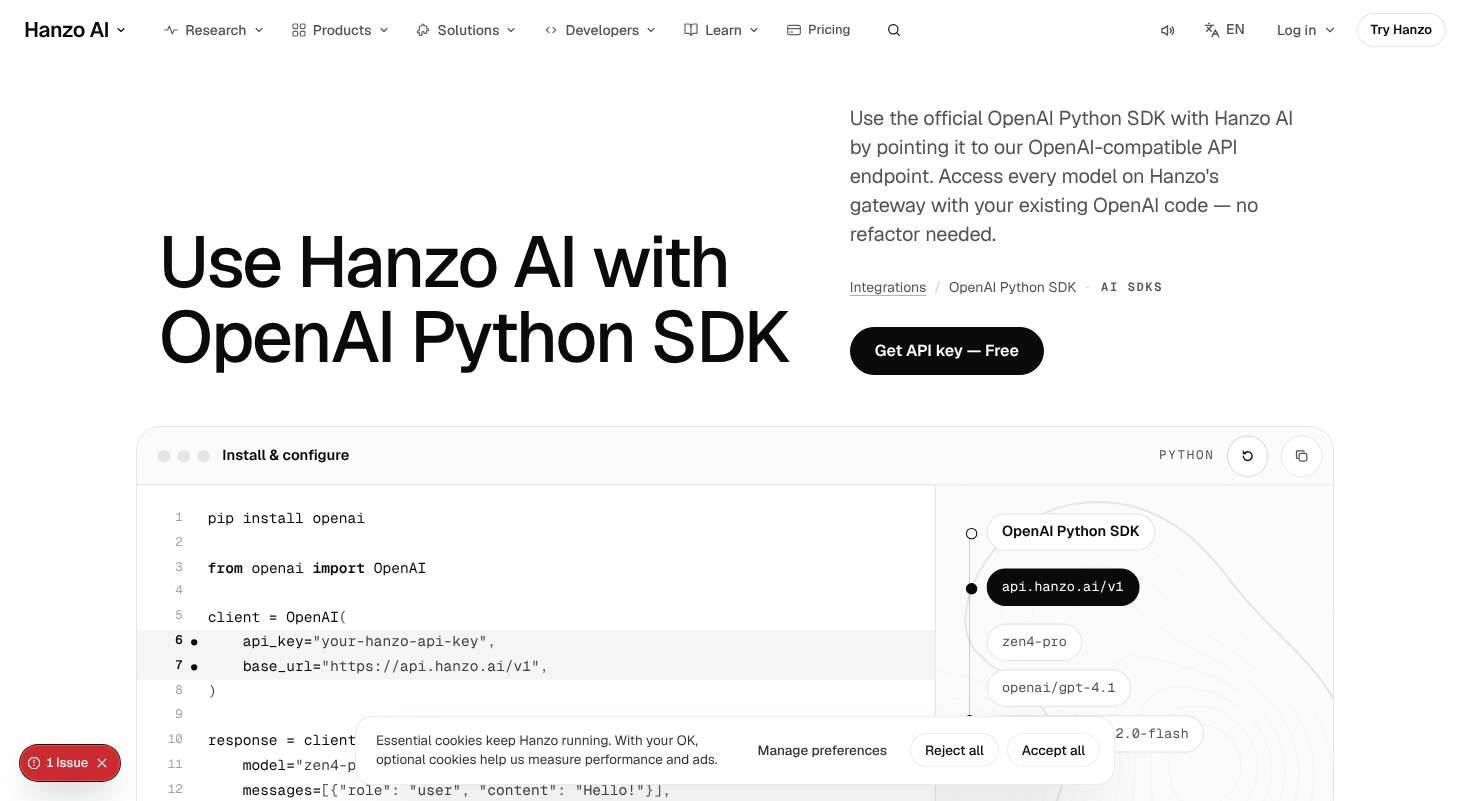
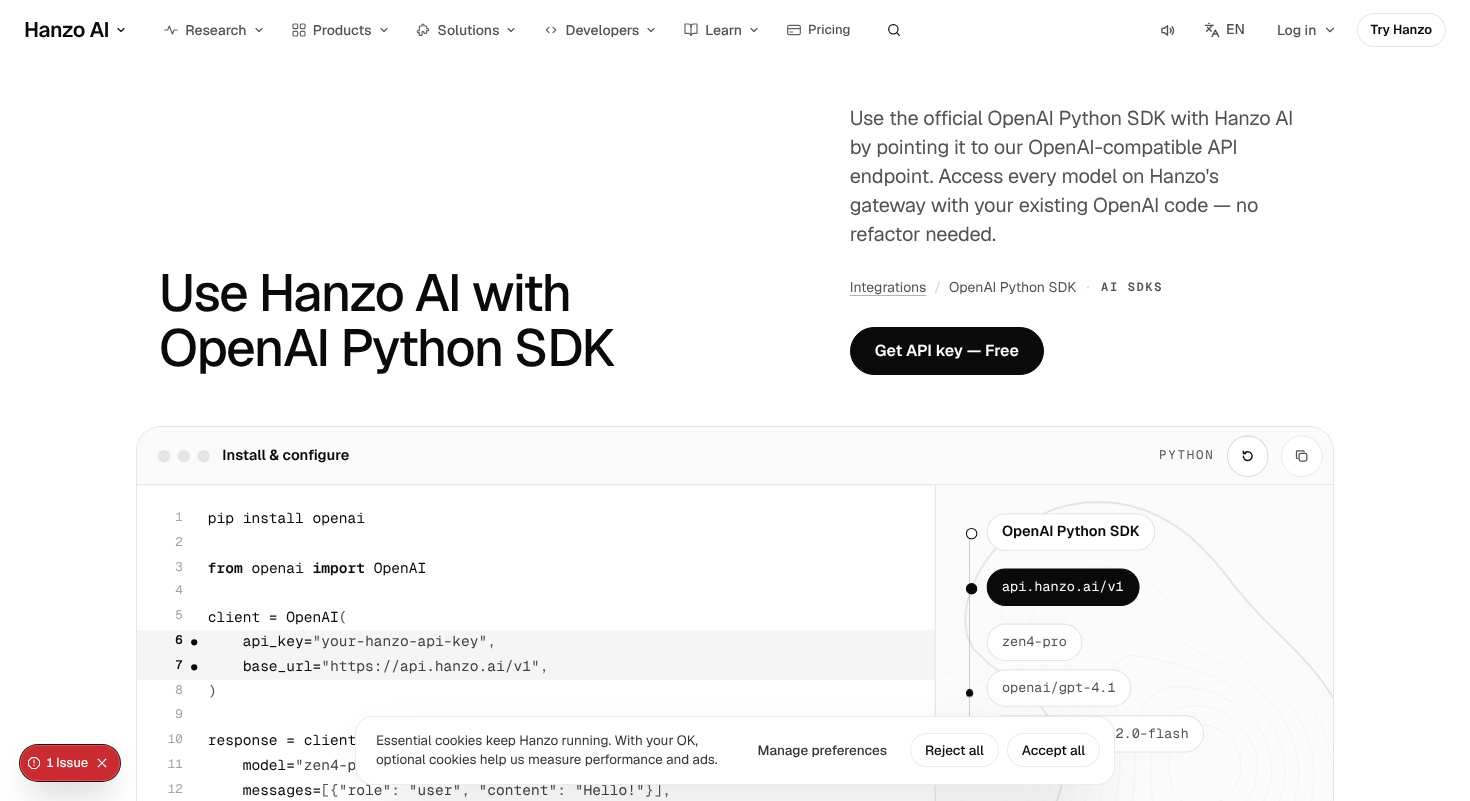
fix(platform): no reduced-motion hydration mismatch, plates fade under the room's captions and ZAP strip, hint beside the finder (not above the h2), finder placeholder, a packet travels the interconnect, phone art paints at its size, faint floor shadow, sections at most 116px apart, chapter index on

Changed region(s): [[0.0918, 0.2809, 0.551, 0.4682]]

diff --git a/components/pages/Platform.css b/components/pages/Platform.css
@@ -10,7 +10,7 @@
   --k-press: 90ms; --k-fast: 150ms; --k-base: 300ms; --k-slow: 400ms; --k-slower: 500ms;
   --k-out: cubic-bezier(0, 0, .2, 1); --k-io: cubic-bezier(.4, 0, .2, 1); --k-em: cubic-bezier(.16, 1, .3, 1);
   /* space (golden steps) */
-  --gut: clamp(16px, 4vw, 32px); --side: max(var(--gut), calc((100vw - 1152px) / 2)); --sec: clamp(72px, 11vw, 188px); --hdr: 60px;
+  --gut: clamp(16px, 4vw, 32px); --side: max(var(--gut), calc((100vw - 1152px) / 2)); --sec: clamp(64px, 7.5vw, 116px); --hdr: 60px;
   --acc: var(--k-ink);
   background: var(--k-white); color: var(--k-ink);
 }
@@ -92,6 +92,23 @@
 .xpl-bar { display: flex; align-items: center; gap: 24px; font: 606 12px/1.3 var(--mono); letter-spacing: .14em; text-transform: uppercase; color: var(--k-on-4); }
 .xpl-bar-t { position: absolute; top: 88px; left: calc(var(--side) + 16px); right: calc(var(--side) + 16px); justify-content: space-between; }
 .xpl-bar-b { position: absolute; bottom: 32px; left: calc(var(--side) + 16px); right: calc(var(--side) + 16px); flex-wrap: wrap; gap: 8px 24px; }
+/* the room's two bars sit on their own black band, above the drawing, so no plate ever runs under their words */
+@media (min-width: 900px) {
+  .xpl-bar-t, .xpl-bar-b { z-index: 3; }
+  .xpl-bar-t::before, .xpl-bar-b::before { content: ''; position: absolute; left: -24px; right: -48px; z-index: -1; pointer-events: none; }
+  .xpl-bar-t::before { top: -32px; bottom: -40px; background: linear-gradient(var(--k-black) 62%, transparent); }
+  .xpl-bar-b::before { top: -64px; bottom: -40px; background: linear-gradient(transparent, var(--k-black) 46%); }
+}
+/* the chapter index stays on one line at desktop widths (it may run under the picture's column) */
+@media (min-width: 1200px) { .xpl .pc-idx { grid-column: 1 / 9; flex-wrap: nowrap; } }
+html.js .xpl-art:not([data-sized]) { visibility: hidden; }
+/* idle life in the room: one packet travels the interconnect, 4.8 s a crossing */
+.xpl-zap { position: relative; }
+.xpl-zap::after { content: ''; position: absolute; left: 24px; bottom: -1px; width: 28px; height: 1px; background: var(--k-on); opacity: 0; pointer-events: none; animation: xpl-packet 4.8s cubic-bezier(.4, 0, .2, 1) 1s infinite; }
+@keyframes xpl-packet { 0% { opacity: 0; transform: translateX(0); } 10%, 85% { opacity: .8; } 100% { opacity: 0; transform: translateX(calc(var(--zap-w, 560px))); } }
+@media (prefers-reduced-motion: reduce) { .xpl-zap::after { display: none; } }
+/* the hero art reads as line art on paper: its floor shadow is kept small and faint */
+.xpl-iso .iso-shadow { transform: rotate(-8deg) scale(.55); opacity: .5; }
 .xpl-hint { transition: opacity var(--k-base) var(--k-out); }
 .xpl-hint.off { opacity: 0; }
 .xpl-jr[data-ph='1'] .xpl-bar a, .xpl-jr[data-ph='1'] .xpl-ask { pointer-events: auto; }
@@ -144,6 +161,8 @@
 .xpl-ask-in:focus-within { border-color: var(--k-on-2); }
 .xpl-ask-in input { flex: 1; min-width: 0; height: 100%; border: 0; outline: 0; background: none; color: var(--k-on); font: 400 16px/1 var(--sans); caret-color: var(--k-on); }
 .xpl-ask-in input::-webkit-search-cancel-button { display: none; }
+.xpl-ask-in input::placeholder { color: var(--k-on-4); }
+.xpl-ask-row { display: inline-flex; align-items: center; gap: 17px; }
 .xpl-ask-x { display: grid; place-items: center; width: 28px; height: 28px; margin-right: -8px; border: 0; border-radius: 50%; background: rgba(255, 255, 255, .14); color: var(--k-on); cursor: pointer; }
 .xpl-ask-x:active { transform: scale(.97); }
 .xpl-ask-n { position: absolute; right: 18px; top: -20px; margin: 0; font: 497 12px/1 var(--mono); color: var(--k-on-4); }
@@ -450,6 +469,7 @@
 .xpl-dir { display: grid; grid-template-columns: repeat(13, minmax(0, 1fr)); column-gap: 24px; align-items: start; }
 .xpl-dir-cols { grid-column: 1 / 9; column-count: 4; column-gap: 20px; }
 .xpl-dir-g + .xpl-dir-g { margin-top: 27px; }
+.xpl-dir-g { break-inside: avoid; } /* a group's heading never leaves its items */
 .xpl-dir-h { break-after: avoid; }
 .xpl-dir-g li { break-inside: avoid; }
 .xpl-dir-g ul { margin: 6px 0 0; padding: 0; list-style: none; }

diff --git a/components/pages/Platform.jsx b/components/pages/Platform.jsx
@@ -183,6 +183,7 @@ function Journey({ openLayer }) {
     const ro = new ResizeObserver(([r]) => {
       const { width: w, height: h } = r.contentRect;
       k.current = pinned ? clamp(Math.min(w / 560, h / 760), 0.42, 1.15) : clamp(Math.min(w / 520, h / 600), 0.4, 1);
+      el.dataset.sized = ''; // the art shows only once it has its size, so it never paints large over the hero's words
       if (pinned) frame(p.get());
       else { camS.set(k.current); camY.set(LIFT * zMid(-1, e.get()) * k.current); }
     });
@@ -251,7 +252,7 @@ function Journey({ openLayer }) {
       <label className="xpl-ask-in">
         <span className="x-sr">Find in the stack</span>
         <svg viewBox="0 0 16 16" width="15" height="15" aria-hidden="true"><circle cx="7" cy="7" r="4.6" fill="none" stroke="currentColor" strokeWidth="1.5" /><path d="M10.4 10.4 14 14" stroke="currentColor" strokeWidth="1.5" strokeLinecap="round" /></svg>
-        <input type="search" value={q} onChange={(ev) => setQ(ev.target.value)} autoComplete="off" spellCheck={false} aria-describedby="xpl-ask-n" />
+        <input type="search" value={q} onChange={(ev) => setQ(ev.target.value)} placeholder="Find in the stack" autoComplete="off" spellCheck={false} aria-describedby="xpl-ask-n" />
         {q && <button type="button" className="xpl-ask-x" onClick={() => setQ('')} aria-label="Clear"><svg viewBox="0 0 16 16" width="12" height="12" aria-hidden="true"><path d="M4 4l8 8M12 4l-8 8" stroke="currentColor" strokeWidth="1.6" strokeLinecap="round" /></svg></button>}
       </label>
       <p id="xpl-ask-n" className="xpl-ask-n" aria-live="polite">{hits ? `${hits.length} / ${N}` : ''}</p>
@@ -302,8 +303,9 @@ function Journey({ openLayer }) {
         <motion.div id="stack" className="xpl-map" data-ask-hide style={pinned ? { opacity: mapO } : undefined}>
           <i className="xpl-map-room" data-room="dark" aria-hidden="true" />
           <div className="xpl-bar xpl-bar-t" onFocus={follow(0.24, ph === 1)}>
-            <span className={'xpl-hint' + (g >= 0 || lit ? ' off' : '')}>Select a layer</span>
-            {finder}
+            {/* the hint is a caption beside the finder, never a label above the room's headline */}
+            <span aria-hidden="true" />
+            <span className="xpl-ask-row"><span className={'xpl-hint' + (g >= 0 || lit ? ' off' : '')}>Select a layer</span>{finder}</span>
           </div>
 
           <motion.header className="xpl-intro" onFocus={follow(0.24, ph === 1 && g < 0)} style={pinned ? { opacity: introO, y: introY } : undefined}>
@@ -510,7 +512,7 @@ const FACTS = [
 function Loop() {
   const ref = useRef(null);
   const seen = useInView(ref, { amount: 0.4 });
-  const calm = useReducedMotion();
+  const calm = useCalm(); // read after mount: the pause button renders the same on server and client
   const [at, setAt] = useState(0);
   const [held, setHeld] = useState(false);
   const [run, setRun] = useState(true);

diff --git a/docs/review/integrations-family.md b/docs/review/integrations-family.md
@@ -1,44 +1,69 @@
 # /integrations/* (template) — James-eye review
 Verdict: 6/10
-First complaint: "The top's alive, then I scroll and it's three screens of white with a little box of code chopped off at the edge. It goes dead in the middle. And what's that red '1 Issue' thing in the corner?"
+First complaint: "When I scroll through the chapters, two lots of text sit on top of each other, and around them there are big empty white holes. It looks broken, not premium. And on my phone it's just a very long page of code."
 
-Walked: `/integrations/openai-sdk/` and `/integrations/langchain/`, moving, at 1470x801 and 375x812 (Playwright, DPR 1). 250 ms frames for the first 8 s untouched, slow wheel scroll through the whole page, hover/press probes on every main control, layout-shift observer (buffered, first 10 s on phone), console, overflow at 375 and 320, JS off, reduced motion. No arrival curtain on these pages. Proof: `docs/review/integrations-family/` (3 JPEGs).
+Walked 7 Nov 2026: /integrations/openai-sdk/ and /integrations/langchain/, moving, at 1470×801 and 375×812 (Playwright, deviceScaleFactor 1). For each, I took 32 frames at 250 ms over the first 8 s with no input, then scrolled slowly in 60 px steps with a frame every half screen. I hovered and pressed 40 controls per run, held the pinned chapters at 9 scroll positions, and loaded each page with JS off and with prefers-reduced-motion. Proof is in `docs/review/integrations-family/`: `1-desktop-hero-badge-cookie.jpg` shows the hero with the red Issue badge and the empty top-left. `2-desktop-pinned-stage-empty-clipped.jpg` catches the chapter crossfade with text on top of text. `3-phone-two-fills-duplicate-labels.jpg` shows the phone first screen with two solid black asks.
 
-## The 11 answers
+## The 11 questions
 
-**1. First screen sells in 5 s, moves within 1 s?** Yes, mostly. The h1, lede, breadcrumb, one solid "Get API key — Free" and the "Install & configure" code window fit the first screen on both sizes. Within 250 ms the key lines start typing themselves (`api_key=`, `base_url=`), and the right-hand route diagram (SDK → `api.hanzo.ai/v1` → models) pulses a dot down the line. That is a real idle and time moment, and it sells "change two lines". Weaknesses: the h1 sits at 72px (resting size is 52px) with its baseline at 43–47% of the viewport (target about 38%), so the hero reads heavy and low. On desktop, the cookie card floats over the bottom of the code window. The red Next "1 Issue" badge sits bottom left on every load.
+**1. Does it sell in 5 s, and does something move within 1 s?** Yes. At 1470 the h1 is cut in by a line mask within the first second. From about 1.1 s the "Install & configure" code types the two Hanzo lines (`api_key`, `base_url`), and the pill chain from SDK to api.hanzo.ai/v1 to the model lights up. The demo settles at about 4.8 s, wakes again at about 6.5 s, and has a Stop/Replay control. On phone it settles at about 4 s. The weak spot is the composition. The h1 sits bottom-left (top 265 px) under about 200 px of empty white, while the lede sits top-right (top 104 px). The eye lands on the lede first and on the h1 second, so the hero reads as two half-filled columns, not one idea.
 
-**2. One thing in, one thing out, or a document?** Half and half. The pinned chapter stage (Streaming / Vision model / Environment variable; LangChain: Chain with prompt / TypeScript / RAG) is the right idea: one panel changes while you scroll, with dash progress below. But the stage is about 3 screens of mostly white: a 26px heading and a mono caption float alone on the left, and the code card on the right is 60% empty under short snippets. After that, "Created by …", "More integrations", the list and the Band are plain document sections stacked in order. On phone the pinned scene stacks as heading, card, heading, card, which reads as a document.
+**2. As you scroll, does one thing come in as one goes out?** Only in the middle. The pinned chapter stage (01/03 to 03/03, about 1,922 px of pin) is the one moment that works that way. While you scroll between chapters, though, both chapters show at about 50% at once: "02" over "03", "Vision model" over "Environment variable", and two code blocks interleaved (proof 2). The held positions are clean, so this happens only in the crossfade, which is exactly where a moving visitor sees it. Before and after the pin there are about 220 to 250 px of dead white. After that the page is a document: credit, a card rail, a 12-row link grid, then the band. On phone it is entirely a document. The page is 8,749 px tall (openai-sdk) and 9,322 px (langchain). It is three stacked chapters, each repeating the pill chain, the "Only the Hanzo lines" toggle and a long code block.
 
-**3. Real visual object in every section?** Hero: yes (live code window plus route diagram). Chapters: a code card, but half blank and clipped on the right ("What is in this image…", "OpenAIEmbedd…" cut off, with no wrap, fade or scroll hint). "Created by OpenAI/LangChain AI": a small grey logo and a paragraph, so no object. More integrations: contour-line cards. The art is the same generic topo pattern on every card on every member, so it is decoration, not a picture of anything. Band: contour art on black. Weakest: the credit section and the chapter cards.
+**3. Does every section hold a real visual object?** Mostly. The hero holds the live code stage, the chapters hold code plus the chain, "More integrations" holds Sigil contour cards (each one different), and the band holds a Sigil. The credit section fails: its only object is "OP" or "LA" initials in a grey rounded square, which reads as an icon in a box. The pill chain is the same object four times per page, so after the hero it no longer adds anything. There are 0 `img` and 0 `video` elements. That is fair for this family, but the partner gets no real mark anywhere.
 
-**4. One ask, in the sticky header, nothing floating; scale rhythm?** Partly. Desktop: the header shows outlined "Try Hanzo" and swaps to solid "Get API key — Free" once the hero ask leaves view, which is good. Phone: the header "Try Hanzo" is solid black *and* the hero "Get API key — Free" is solid black on the same first screen, so two solid fills and two different labels. The cookie card (desktop: a floating bar over the code; phone: a 220px+ card covering the hero object for the whole walk until dismissed) floats over content. Scale: a 72px h1, then everything else is 26px headings and 13–14px code. There is a big and a small, no medium, and nothing grows or shrinks as you go.
+**4. Is there one ask, in Hanzo's words, in the sticky header, with nothing floating over content? Does scale have rhythm?** On desktop, yes. Once the hero ask leaves the view, the header ask turns into a solid "Get API key — Free" and nothing floats over content apart from the consent card. In the first second, though, the header "Try Hanzo" starts solid and then flips to an outline, so for a moment there are two solid fills. On phone the header never swaps. "Try Hanzo" stays solid black next to the solid "Get API key — Free" in the same first viewport: two fills, two different labels (proof 3). Scale is good: the h1 is 52 px (40 on phone), the 01/03 chapter figure is large, h2s are 26 px, and labels are small mono. Nothing grows or shrinks, though, so the scale never answers the scroll.
 
-**5. Every hover and press answers, no jumps?** Mostly yes. The primary darkens (#0a0a0a to #262626) and presses to scale .97. Copy turns into a tick, really copies exactly the displayed text (verified on the clipboard), and says "Copied". Replay re-types. "Only the Hanzo lines" dims every line except the Hanzo ones (lovely, it tells you something). Related cards fill #f5f5f5 to #ededed, reveal their description and turn the arrow on hover, press to .974, then **open into their page** (the title flies to the destination h1). List rows nudge 4px. Failures: the chapter card's "Streaming / Vision model / Environment variable" strip looks like tabs but is plain spans, so clicking does nothing. The only control is the three 44px dashes. The header ask fades to opacity .88 on hover (banned "buttons that fade on hover"). "Browse Models" only changes its border alpha.
+**5. Does every hover and press answer, with no jumps?** Mostly. Presses scale to 0.97 or 0.98 on every button. Copy buttons go to 0.92 and confirm. The integration cards answer well: the fill steps from #f5f5f5 to #ededed, the hidden description rises 8 px into view, and the arrow turns 45°. Rows nudge 4 px, links underline, and I measured no size jumps. The misses: the header "Try Hanzo" hover only fades opacity from 1 to 0.88 (a banned fade). The hero primary hover only shifts the fill from #0a0a0a to #262626 and tells you nothing. The band's "Browse Models" showed no measurable hover change. The three chapter dashes have no hover state.
 
-**6. Overlap, font swap or layout shift?** No horizontal overflow at 375 or 320. Desktop CLS is 0.0007. Phone CLS in the first 10 s is **0.0188 on openai-sdk** (one 0.012 text shift at 3.6 s) and 0.008 on langchain. That is under 0.02 but right at the line, and it is text moving after the page has settled. No visible font swap. Overlaps: the cookie card sits over the hero code window on both sizes, and the dev "1 Issue" badge comes from a **hydration-mismatch console error on every load of both members at both sizes** ("A tree hydrated but some attributes of the server rendered HTML didn't match…"). DONE says no red badge, no console errors.
+**6. Do overlaps, a font swap or layout shift appear anywhere?**
+- **Layout shift.** On desktop, CLS is 0.0003 at load and 0.0007 after a full scroll. On phone it is 0.0188 (openai-sdk) and 0.008 (langchain) over the first 10 s, mostly the consent card's text reflowing at 2.2 to 3.5 s (one shift of 0.0121). That is under the 0.02 limit, but only just.
+- **Font swap and overflow.** I saw no font swap. Horizontal overflow is 0 px at both sizes.
+- **Overlaps.** The chapter crossfade puts text on top of text. On first load the consent card covers lines 10 to 13 of the hero code on desktop and 203 px of the phone screen.
+- **Error badge.** A red Next "1 Issue" badge sat bottom-left on all 4 walked loads, and those walks logged a hydration-mismatch error ("A tree hydrated but some attributes… didn't match"). It did not reproduce on 2 networkidle loads, so it is intermittent. It still fails the "no red badge, no console errors" bar.
 
-**7. Which reference, and is its motion there?** apple.com product page in intent: a pinned scene where one panel changes, and a sticky header ask that swaps. synchronized.studio's card-opens-into-page is genuinely there from the More integrations cards. But Apple's pinned scenes fill the screen with the product. Here the pinned stage is a small card on an empty white field, so the apple moment doesn't land. The typing code plus route diagram is motion.dev-grade and the best thing on the page.
+**7. Which reference does it feel like, and is that reference's motion actually there?** It feels like apple.com's pinned scene, where one panel changes, plus motion.dev's typewriter and staged loading, and those motions really are there. synchronized.studio's card opening into its page did not show in my walk: clicking a "More integrations" card swapped the page with no visible handover of title or picture. That makes it a dev-docs page with good manners, not the Apple "one idea per screen" story it reaches for.
 
-**8. Different from its neighbours?** As a family it has its own object: the "two lines change" typed config plus the route diagram, which no other page type uses. Between members, only the code, the route nodes and the contour seed differ. That is acceptable for a family template, but the identical topo art on every related card makes the bottom half of every member look the same.
+**8. Is it different from its neighbours?** The two members are the same composition with different data and different Sigil seeds, which MASTER allows for a family. At template level the hero medium (a code stage with a live routing chain) is distinct from the model and catalogue templates.
 
-**9. All 18 parts covered?** Visible gaps: part 4 (two solid fills on phone; the header label is not the hero label until scroll), part 6 (code clipped without wrap or scroll cue on desktop chapters; mid-token wraps on phone such as `https://api.hanzo.a` / `i/v1`), part 8 (fake tabs, fading header button), part 11 (one bottom layer: the cookie card covers the hero object on phone), part 13/17 (a console error on load), and part 15 (the related rail clips the 4th card with no snap, peek control or arrows; `scroll-snap-type: none`). Covered well: breadcrumb, one h1, copy-equals-display, Morph, JS-off legible (all copy and code render; only the 6 hover descriptions on related cards stay hidden), reduced motion (final code state, 0 running animations after 3.5 s), and the sound toggle in the header.
+**9. Are all 18 parts covered?** Most parts show:
+- one h1, a breadcrumb, `data-cta="integrations.hero"` on the primary, and the sticky-ask swap on desktop;
+- the Stop/Replay control on the demo and copy confirmation;
+- a reduced-motion final state with 0 running animations after 3.5 s, and a legible JS-off page;
+- the Band before the footer, and the sound toggle in the header.
 
-**10. Banned tells?** Buttons that fade on hover (the header ask, opacity .88). Floating panel over content (the cookie card over the hero object). Otherwise clean: monochrome, Zen/Zen Mono, no gradient text, no pill above the h1 (the "AI SDKS" / "FRAMEWORKS" mono label sits below the lede, which is allowed).
+The open parts are:
+- Part 4 (the phone header ask);
+- Part 16 (code wraps mid-token: "What is in / this image?" on desktop, "from_templat / e(" on phone, instead of a labelled scroll region);
+- Part 17 (the console error and badge);
+- Part 6 (with JS off, the 6 card descriptions stay at opacity 0).
 
-**11. Copy untouched?** As walked, yes: titles, ledes, code, the "Created by" lines and the Band read as Hanzo's integration copy. One oddity worth a parity check: the phone chapters print each label twice ("Streaming / PYTHON" as a heading, then again as the card head). That is duplication rather than rewriting, but it reads as a bug.
+**10. Are there any banned tells?**
+- Buttons that fade on hover: the header "Try Hanzo" goes from opacity 1 to 0.88.
+- Something like an icon in a box: the initials tile in the credit section.
+- Low contrast: over the black band the header becomes a muddy grey bar (72% white glass over black) with grey text.
+
+There are no hues, gradient text, pills above the h1, serif accents or cursor glow. The category label sits beside the breadcrumb, not above the h1.
+
+**11. Is the copy untouched?** Yes. `parity.py` reports openai-sdk at text 93/93 and links 23/23, and langchain at text 92/92 and links 23/23.
 
 ## Fixes (ordered by impact)
-
-1. **Kill the hydration mismatch.** 0 console errors and no red "1 Issue" badge on both members at both sizes, measured on a cold load. It is a DONE gate.
-2. **Make the pinned chapter stage a full stage, not a small card on white.** The code card fills at least 70% of the viewport height with no more than 25% empty interior. The left column carries a live object (re-use the route diagram with this chapter's node lit, or the chapter's output streaming). The stage runs 2 screens at most, not 3.
-3. **No clipped code.** Every code line is fully visible at 1470 (wrap with a hanging indent, or a visible horizontal-scroll fade plus `tabindex=0`). On phone, never break inside a URL or token (`overflow-wrap: anywhere` off; scroll the block instead).
-4. **The chapter "tabs" must be real tabs or not look like tabs.** Either APG tabs (click or arrow switches the panel and scrolls the pin to that chapter, tick sound) or plain caption text with no tab styling. 0 clickable-looking dead controls.
-5. **One solid fill per viewport on phone.** The header ask is quiet (outlined) while the hero "Get API key — Free" is in view, and solid only after it leaves. Use the same label as the hero (part 4), not "Try Hanzo".
-6. **The header ask hover must not fade.** Opacity stays 1; change fill or offset instead (shared chrome: file a request).
-7. **The cookie card never covers the hero object.** At 375x812 it is 220px tall or less and sits below the hero code window's first 5 lines, or docks into the bottom bar slot. On desktop it avoids overlapping the code window (shared chrome: request).
-8. **Phone chapters: show each label once.** Drop the duplicate heading-plus-card-head ("Streaming PYTHON" twice), so each chapter is one card with one title.
-9. **Related rail:** `scroll-snap-type: x proximity`, a 14–18% peek, and prev/next or drag inertia. Give each card art from its own integration (a mark, a code glyph, a seed visibly tied to the name) instead of the same topo pattern.
-10. **Hero scale and position:** rest the h1 at 52–64px with its baseline at about 38% of 100svh, so the code window rises into the first screen by at least 120px more on desktop.
-11. **"Created by …" section needs an object.** For example, the logo at true size with the GitHub stars/licence as a figure, or a small diff of the two changed lines. Not a 64px grey icon beside a paragraph.
-12. **Phone CLS:** find the 0.012 text shift at about 3.6 s on openai-sdk (likely the typing block re-measuring). Reserve its final height so the first 10 s total is 0.005 or less.
+1. **Kill the chapter ghosting.** Between chapters, no two chapter titles, numbers or code blocks may both sit above 0.15 opacity in the same frame. Run the outgoing chapter out (opacity to 0, translateY −16 px, 300 ms) before the incoming one starts. Re-film at 60 px per 90 ms of scroll and check every frame.
+2. **Remove the dead white.**
+   - The gap between the bottom of the hero stage and the first chapter's content must be 72 px or less at 1470×801. Today it is about 220 px.
+   - The space between the chapter dashes and the credit hairline must also be 72 px or less. Today it is about 250 px.
+   - In the hero, either move the lede under the h1 on the 8/5 split or start the h1 at 38% of the viewport with the lede baseline-aligned. No empty block over 120 px tall may sit beside the h1.
+3. **Phone: one ask.** Once the hero ask is in view at 375×812, the header ask must be quiet (not solid), and it must take the label "Get API key — Free" when the hero ask leaves, as it does on desktop. Exactly 1 solid fill per phone viewport.
+4. **Phone: not a document.** Cut the phone page from 8,749 or 9,322 px to under 6,000 px:
+   - Show the chapters as a single tabbed code panel at a fixed height, or as a horizontal snap rail with a 14–18% peek, not three full stacks.
+   - Show the pill chain once, in the hero.
+   - Show the "Only the Hanzo lines" toggle once.
+5. **Fix the error.** 0 console errors and no "Issue" badge on 5 consecutive plain loads at each size, including loads screenshotted from `commit`. The hydration-mismatch attribute must go.
+6. **Code must not wrap.** Code blocks use `white-space: pre` inside a labelled `tabindex="0"` scroll region (Part 16). No identifier or string may break across lines at 1470 or at 375.
+7. **No fade on hover, and every hover tells you something.** The header "Try Hanzo" hover must change fill or border, not opacity. The hero primary hover should show something useful (for example the destination host, platform.hanzo.ai) or at least a fill-plus-icon nudge of up to 4 px. "Browse Models" needs a visible border or fill change. The chapter dashes need a hover state and a 44 px hit area with a label.
+8. **Give the credit section a real object.** Replace the "OP"/"LA" initials tile with the partner's real mirrored mark, or the family's Sigil seed. No initials in a rounded box.
+9. **Header over the black band.** On black rooms the header must switch to its dark state (graphite or black glass, #fafafa text) so text contrast is at least 4.5:1. No mid-grey bar.
+10. **Rail and states.**
+    - The "More integrations" rail must bleed to the viewport edge with a 14–18% peek instead of clipping at the container ("LlamaInde").
+    - With JS off, card descriptions must be visible (opacity 1).
+    - The first-second header flip from solid to outline must not be visible. Render it quiet from the server.
